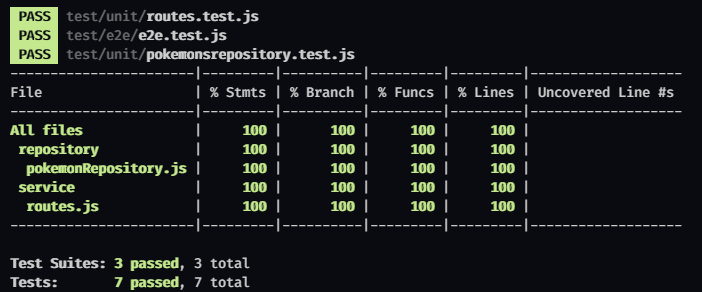
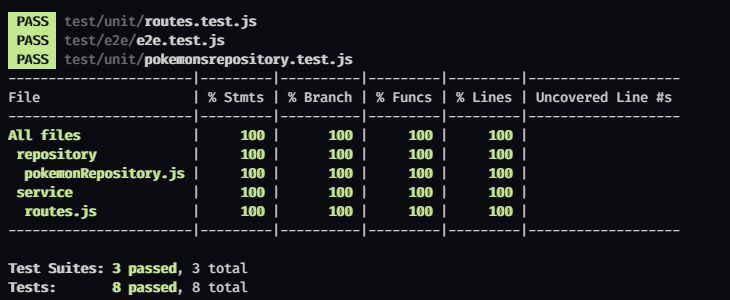
latest settings

diff --git a/coverage/lcov-report/service/routes.js.html b/coverage/lcov-report/service/routes.js.html
@@ -25,28 +25,28 @@
             <div class='fl pad1y space-right2'>
                 <span class="strong">100% </span>
                 <span class="quiet">Statements</span>
-                <span class='fraction'>24/24</span>
+                <span class='fraction'>30/30</span>
             </div>
         
             
             <div class='fl pad1y space-right2'>
                 <span class="strong">100% </span>
                 <span class="quiet">Branches</span>
-                <span class='fraction'>3/3</span>
+                <span class='fraction'>4/4</span>
             </div>
         
             
             <div class='fl pad1y space-right2'>
                 <span class="strong">100% </span>
                 <span class="quiet">Functions</span>
-                <span class='fraction'>3/3</span>
+                <span class='fraction'>4/4</span>
             </div>
         
             
             <div class='fl pad1y space-right2'>
                 <span class="strong">100% </span>
                 <span class="quiet">Lines</span>
-                <span class='fraction'>24/24</span>
+                <span class='fraction'>30/30</span>
             </div>
         
             
@@ -81,7 +81,19 @@
 <a name='L22'></a><a href='#L22'>22</a>
 <a name='L23'></a><a href='#L23'>23</a>
 <a name='L24'></a><a href='#L24'>24</a>
-<a name='L25'></a><a href='#L25'>25</a></td><td class="line-coverage quiet"><span class="cline-any cline-yes">1x</span>
+<a name='L25'></a><a href='#L25'>25</a>
+<a name='L26'></a><a href='#L26'>26</a>
+<a name='L27'></a><a href='#L27'>27</a>
+<a name='L28'></a><a href='#L28'>28</a>
+<a name='L29'></a><a href='#L29'>29</a>
+<a name='L30'></a><a href='#L30'>30</a>
+<a name='L31'></a><a href='#L31'>31</a></td><td class="line-coverage quiet"><span class="cline-any cline-yes">1x</span>
+<span class="cline-any cline-yes">1x</span>
+<span class="cline-any cline-yes">1x</span>
+<span class="cline-any cline-yes">1x</span>
+<span class="cline-any cline-yes">1x</span>
+<span class="cline-any cline-yes">1x</span>
+<span class="cline-any cline-yes">1x</span>
 <span class="cline-any cline-yes">1x</span>
 <span class="cline-any cline-yes">1x</span>
 <span class="cline-any cline-yes">1x</span>
@@ -108,23 +120,29 @@
 <span class="cline-any cline-neutral">&nbsp;</span></td><td class="text"><pre class="prettyprint lang-js">const pokemonRepository = require("../repository/pokemonRepository");
 &nbsp;
 const routes = {
-  "/": async (req, res) =&gt; {
-    //GET
-    const results = await pokemonRepository.readOnePokemon();
-    res.setHeader("Content-Type", "application/json");
-    res.statusCode = 200;
-    return res.end(JSON.stringify(results));
+  GET: {
+    "/": async (req, res) =&gt; {
+      //GET
+      const results = await pokemonRepository.readOnePokemon();
+      res.setHeader("Content-Type", "application/json");
+      res.statusCode = 200;
+      return res.end(JSON.stringify(results));
+    },
+    "/team": async (req, res) =&gt; {
+      //GET
+      const results = await pokemonRepository.readThreePokemons();
+      res.setHeader("Content-Type", "application/json");
+      res.statusCode = 200;
+      return res.end(JSON.stringify(results));
+    },
+    default: (req, res) =&gt; {
+      return routes["GET"]["/"](req, res); //routes default
+    },
   },
-  "/team": async (req, res) =&gt; {
-    //GET
-    const results = await pokemonRepository.readThreePokemons();
-    res.setHeader("Content-Type", "application/json");
-    res.statusCode = 200;
-    return res.end(JSON.stringify(results));
-  },
-  //to routes undefined
-  default: (req, res) =&gt; {
-    return routes["/"](req, res); //routes default
+  //route undefined to PUT/DELETE/POST/PATCH
+  undefined: (req, res) =&gt; {
+    res.statusCode = 404;
+    return res.end();
   },
 };
 &nbsp;
@@ -136,7 +154,7 @@ module.exports = { routes };
             <div class='footer quiet pad2 space-top1 center small'>
                 Code coverage generated by
                 <a href="https://istanbul.js.org/" target="_blank">istanbul</a>
-                at Tue Nov 02 2021 19:59:11 GMT-0300 (Brasilia Standard Time)
+                at Tue Nov 02 2021 20:42:36 GMT-0300 (Brasilia Standard Time)
             </div>
         </div>
         <script src="../prettify.js"></script>

diff --git a/coverage/lcov-report/index.html b/coverage/lcov-report/index.html
@@ -25,28 +25,28 @@
             <div class='fl pad1y space-right2'>
                 <span class="strong">100% </span>
                 <span class="quiet">Statements</span>
-                <span class='fraction'>59/59</span>
+                <span class='fraction'>65/65</span>
             </div>
         
             
             <div class='fl pad1y space-right2'>
                 <span class="strong">100% </span>
                 <span class="quiet">Branches</span>
-                <span class='fraction'>8/8</span>
+                <span class='fraction'>10/10</span>
             </div>
         
             
             <div class='fl pad1y space-right2'>
                 <span class="strong">100% </span>
                 <span class="quiet">Functions</span>
-                <span class='fraction'>7/7</span>
+                <span class='fraction'>8/8</span>
             </div>
         
             
             <div class='fl pad1y space-right2'>
                 <span class="strong">100% </span>
                 <span class="quiet">Lines</span>
-                <span class='fraction'>59/59</span>
+                <span class='fraction'>65/65</span>
             </div>
         
             
@@ -80,7 +80,7 @@
 	<td data-value="100" class="pct high">100%</td>
 	<td data-value="35" class="abs high">35/35</td>
 	<td data-value="100" class="pct high">100%</td>
-	<td data-value="5" class="abs high">5/5</td>
+	<td data-value="6" class="abs high">6/6</td>
 	<td data-value="100" class="pct high">100%</td>
 	<td data-value="4" class="abs high">4/4</td>
 	<td data-value="100" class="pct high">100%</td>
@@ -93,13 +93,13 @@
 	<div class="chart"><div class="cover-fill cover-full" style="width: 100%"></div><div class="cover-empty" style="width: 0%"></div></div>
 	</td>
 	<td data-value="100" class="pct high">100%</td>
-	<td data-value="24" class="abs high">24/24</td>
+	<td data-value="30" class="abs high">30/30</td>
 	<td data-value="100" class="pct high">100%</td>
-	<td data-value="3" class="abs high">3/3</td>
+	<td data-value="4" class="abs high">4/4</td>
 	<td data-value="100" class="pct high">100%</td>
-	<td data-value="3" class="abs high">3/3</td>
+	<td data-value="4" class="abs high">4/4</td>
 	<td data-value="100" class="pct high">100%</td>
-	<td data-value="24" class="abs high">24/24</td>
+	<td data-value="30" class="abs high">30/30</td>
 	</tr>
 
 </tbody>
@@ -110,7 +110,7 @@
             <div class='footer quiet pad2 space-top1 center small'>
                 Code coverage generated by
                 <a href="https://istanbul.js.org/" target="_blank">istanbul</a>
-                at Tue Nov 02 2021 19:59:11 GMT-0300 (Brasilia Standard Time)
+                at Tue Nov 02 2021 20:42:36 GMT-0300 (Brasilia Standard Time)
             </div>
         </div>
         <script src="prettify.js"></script>

diff --git a/coverage/lcov-report/service/index.html b/coverage/lcov-report/service/index.html
@@ -25,28 +25,28 @@
             <div class='fl pad1y space-right2'>
                 <span class="strong">100% </span>
                 <span class="quiet">Statements</span>
-                <span class='fraction'>24/24</span>
+                <span class='fraction'>30/30</span>
             </div>
         
             
             <div class='fl pad1y space-right2'>
                 <span class="strong">100% </span>
                 <span class="quiet">Branches</span>
-                <span class='fraction'>3/3</span>
+                <span class='fraction'>4/4</span>
             </div>
         
             
             <div class='fl pad1y space-right2'>
                 <span class="strong">100% </span>
                 <span class="quiet">Functions</span>
-                <span class='fraction'>3/3</span>
+                <span class='fraction'>4/4</span>
             </div>
         
             
             <div class='fl pad1y space-right2'>
                 <span class="strong">100% </span>
                 <span class="quiet">Lines</span>
-                <span class='fraction'>24/24</span>
+                <span class='fraction'>30/30</span>
             </div>
         
             
@@ -78,13 +78,13 @@
 	<div class="chart"><div class="cover-fill cover-full" style="width: 100%"></div><div class="cover-empty" style="width: 0%"></div></div>
 	</td>
 	<td data-value="100" class="pct high">100%</td>
-	<td data-value="24" class="abs high">24/24</td>
+	<td data-value="30" class="abs high">30/30</td>
 	<td data-value="100" class="pct high">100%</td>
-	<td data-value="3" class="abs high">3/3</td>
+	<td data-value="4" class="abs high">4/4</td>
 	<td data-value="100" class="pct high">100%</td>
-	<td data-value="3" class="abs high">3/3</td>
+	<td data-value="4" class="abs high">4/4</td>
 	<td data-value="100" class="pct high">100%</td>
-	<td data-value="24" class="abs high">24/24</td>
+	<td data-value="30" class="abs high">30/30</td>
 	</tr>
 
 </tbody>
@@ -95,7 +95,7 @@
             <div class='footer quiet pad2 space-top1 center small'>
                 Code coverage generated by
                 <a href="https://istanbul.js.org/" target="_blank">istanbul</a>
-                at Tue Nov 02 2021 19:59:11 GMT-0300 (Brasilia Standard Time)
+                at Tue Nov 02 2021 20:42:36 GMT-0300 (Brasilia Standard Time)
             </div>
         </div>
         <script src="../prettify.js"></script>

diff --git a/coverage/lcov-report/repository/pokemonRepository.js.html b/coverage/lcov-report/repository/pokemonRepository.js.html
@@ -32,7 +32,7 @@
             <div class='fl pad1y space-right2'>
                 <span class="strong">100% </span>
                 <span class="quiet">Branches</span>
-                <span class='fraction'>5/5</span>
+                <span class='fraction'>6/6</span>
             </div>
         
             
@@ -111,11 +111,11 @@
 <span class="cline-any cline-yes">1x</span>
 <span class="cline-any cline-yes">1x</span>
 <span class="cline-any cline-yes">1x</span>
+<span class="cline-any cline-yes">5x</span>
+<span class="cline-any cline-yes">5x</span>
 <span class="cline-any cline-yes">3x</span>
 <span class="cline-any cline-yes">3x</span>
-<span class="cline-any cline-yes">3x</span>
-<span class="cline-any cline-yes">3x</span>
-<span class="cline-any cline-yes">3x</span>
+<span class="cline-any cline-yes">5x</span>
 <span class="cline-any cline-yes">1x</span>
 <span class="cline-any cline-yes">1x</span>
 <span class="cline-any cline-yes">1x</span>
@@ -169,7 +169,7 @@ module.exports = new PokemonRepository();
             <div class='footer quiet pad2 space-top1 center small'>
                 Code coverage generated by
                 <a href="https://istanbul.js.org/" target="_blank">istanbul</a>
-                at Tue Nov 02 2021 19:59:11 GMT-0300 (Brasilia Standard Time)
+                at Tue Nov 02 2021 20:42:36 GMT-0300 (Brasilia Standard Time)
             </div>
         </div>
         <script src="../prettify.js"></script>

diff --git a/src/service/routes.js b/src/service/routes.js
@@ -1,23 +1,29 @@
 const pokemonRepository = require("../repository/pokemonRepository");
 
 const routes = {
-  "/": async (req, res) => {
-    //GET
-    const results = await pokemonRepository.readOnePokemon();
-    res.setHeader("Content-Type", "application/json");
-    res.statusCode = 200;
-    return res.end(JSON.stringify(results));
+  GET: {
+    "/": async (req, res) => {
+      //GET
+      const results = await pokemonRepository.readOnePokemon();
+      res.setHeader("Content-Type", "application/json");
+      res.statusCode = 200;
+      return res.end(JSON.stringify(results));
+    },
+    "/team": async (req, res) => {
+      //GET
+      const results = await pokemonRepository.readThreePokemons();
+      res.setHeader("Content-Type", "application/json");
+      res.statusCode = 200;
+      return res.end(JSON.stringify(results));
+    },
+    default: (req, res) => {
+      return routes["GET"]["/"](req, res); //routes default
+    },
   },
-  "/team": async (req, res) => {
-    //GET
-    const results = await pokemonRepository.readThreePokemons();
-    res.setHeader("Content-Type", "application/json");
-    res.statusCode = 200;
-    return res.end(JSON.stringify(results));
-  },
-  //to routes undefined
-  default: (req, res) => {
-    return routes["/"](req, res); //routes default
+  //route undefined to PUT/DELETE/POST/PATCH
+  undefined: (req, res) => {
+    res.statusCode = 404;
+    return res.end();
   },
 };
 

diff --git a/coverage/lcov-report/repository/index.html b/coverage/lcov-report/repository/index.html
@@ -32,7 +32,7 @@
             <div class='fl pad1y space-right2'>
                 <span class="strong">100% </span>
                 <span class="quiet">Branches</span>
-                <span class='fraction'>5/5</span>
+                <span class='fraction'>6/6</span>
             </div>
         
             
@@ -80,7 +80,7 @@
 	<td data-value="100" class="pct high">100%</td>
 	<td data-value="35" class="abs high">35/35</td>
 	<td data-value="100" class="pct high">100%</td>
-	<td data-value="5" class="abs high">5/5</td>
+	<td data-value="6" class="abs high">6/6</td>
 	<td data-value="100" class="pct high">100%</td>
 	<td data-value="4" class="abs high">4/4</td>
 	<td data-value="100" class="pct high">100%</td>
@@ -95,7 +95,7 @@
             <div class='footer quiet pad2 space-top1 center small'>
                 Code coverage generated by
                 <a href="https://istanbul.js.org/" target="_blank">istanbul</a>
-                at Tue Nov 02 2021 19:59:11 GMT-0300 (Brasilia Standard Time)
+                at Tue Nov 02 2021 20:42:36 GMT-0300 (Brasilia Standard Time)
             </div>
         </div>
         <script src="../prettify.js"></script>

diff --git a/test/unit/routes.test.js b/test/unit/routes.test.js
@@ -37,7 +37,7 @@ describe("testing the routes object using spies", () => {
       .mockResolvedValue(mocks.threePokemons);
 
     params.req.method = "GET";
-    await routes["/team"](...params.values());
+    await routes[params.req.method]["/team"](...params.values());
     expect(params.res.end).toHaveBeenNthCalledWith(
       1,
       JSON.stringify([
@@ -57,7 +57,7 @@ describe("testing the routes object using spies", () => {
       .mockResolvedValue(mocks.OnePokemon);
 
     params.req.method = "GET";
-    await routes["/"](...params.values());
+    await routes[params.req.method]["/"](...params.values());
 
     expect(params.res.end).toHaveBeenNthCalledWith(
       1,

diff --git a/src/api.js b/src/api.js
@@ -7,9 +7,9 @@ const path = require("path");
 const eventEmitter = new EventEmitter();
 
 const handler = (req, res) => {
-  return routes[req.url]
-    ? routes[req.url](req, res)
-    : routes["default"](req, res);
+  return routes[req.method]
+    ? routes[req.method][routes[req.method][req.url] ? req.url : "default"](req, res)
+    : routes["undefined"](req, res);
 };
 
 (async () => {

diff --git a/test/e2e/e2e.test.js b/test/e2e/e2e.test.js
@@ -26,4 +26,9 @@ describe("End2End", () => {
         .expect(200)
     })
 
+    test('testing a non-existent method', async () => {
+        await request(server)
+        .post('/team')
+        .expect(404)
+    })
 })
